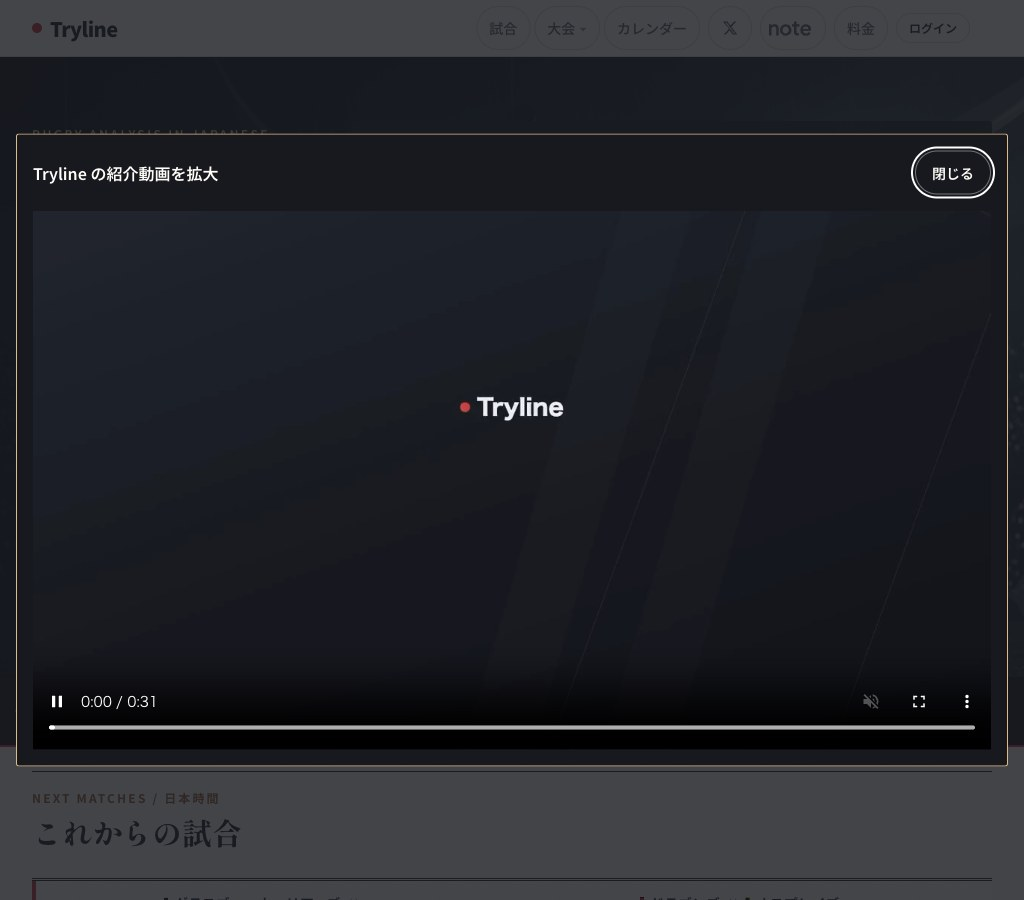
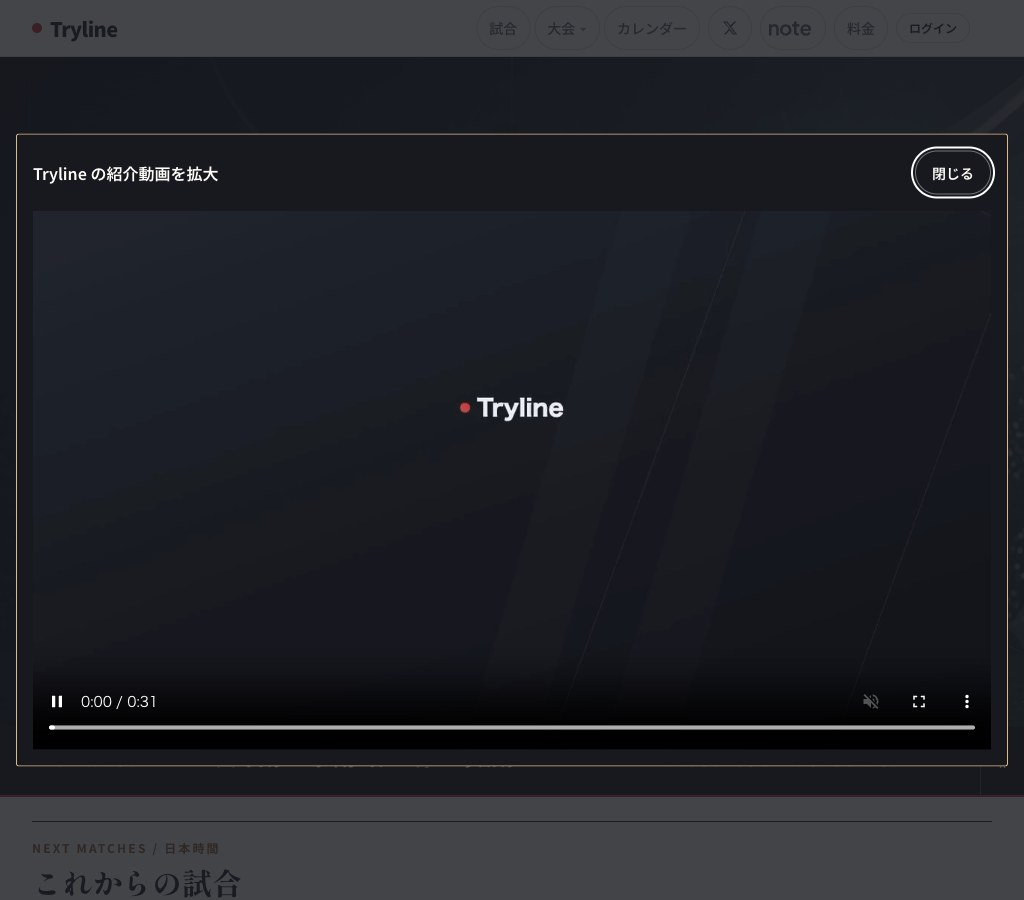
fix: restore compact intro film and make its surface expandable

diff --git a/components/home-intro-film.tsx b/components/home-intro-film.tsx
@@ -1,6 +1,6 @@
 "use client";
 
-import { useEffect, useId, useRef, useState } from "react";
+import { type MouseEvent, useEffect, useId, useRef, useState } from "react";
 
 const POSTER_SRC = "/videos/tryline-promo-poster.jpg";
 const VIDEO_SRC = "/videos/tryline-promo-720p.mp4";
@@ -74,10 +74,11 @@ export function HomeIntroFilm() {
     };
   }, [expanded, dialogFailed]);
 
-  function openDialog() {
+  function openDialog(event: MouseEvent<HTMLButtonElement>) {
     const dialog = dialogRef.current;
     if (!dialog || dialog.open) return;
 
+    expandButtonRef.current = event.currentTarget;
     const inlineVideo = videoRef.current;
     resumeInlineRef.current = Boolean(inlineVideo && !inlineVideo.paused);
     inlineVideo?.pause();
@@ -144,11 +145,36 @@ export function HomeIntroFilm() {
             width={1280}
           />
         )}
+        <button
+          aria-label="紹介動画を拡大して見る"
+          className="tl-intro-expand absolute inset-0 z-10 cursor-zoom-in focus-visible:outline focus-visible:outline-2 focus-visible:-outline-offset-4 focus-visible:outline-white"
+          disabled={!ready}
+          onClick={openDialog}
+          type="button"
+        >
+          <span className="tl-intro-expand-icon absolute left-1/2 top-1/2 flex h-14 w-14 -translate-x-1/2 -translate-y-1/2 items-center justify-center rounded-full border border-white/60 bg-[var(--color-ink-strong)] text-white">
+            <svg
+              aria-hidden="true"
+              fill="none"
+              height="28"
+              viewBox="0 0 24 24"
+              width="28"
+            >
+              <path
+                d="M8 3H3v5m0-5 6 6m7-6h5v5m0-5-6 6M3 16v5h5m-5 0 6-6m12 1v5h-5m5 0-6-6"
+                stroke="currentColor"
+                strokeLinecap="round"
+                strokeLinejoin="round"
+                strokeWidth="1.5"
+              />
+            </svg>
+          </span>
+        </button>
         {enabled && !failed && (
           <button
             aria-label={paused ? "紹介動画を再生" : "紹介動画を一時停止"}
             aria-pressed={paused}
-            className="absolute bottom-2 right-2 inline-flex min-h-11 min-w-11 items-center justify-center rounded-full border border-white/40 bg-[var(--color-ink-strong)] px-4 text-xs font-semibold text-white focus-visible:outline focus-visible:outline-2 focus-visible:outline-offset-2 focus-visible:outline-white"
+            className="absolute bottom-2 right-2 z-20 inline-flex min-h-11 min-w-11 items-center justify-center rounded-full border border-white/40 bg-[var(--color-ink-strong)] px-4 text-xs font-semibold text-white focus-visible:outline focus-visible:outline-2 focus-visible:outline-offset-2 focus-visible:outline-white"
             onClick={togglePlayback}
             type="button"
           >
@@ -169,7 +195,6 @@ export function HomeIntroFilm() {
           className="inline-flex min-h-11 items-center rounded-full border border-white/40 px-4 text-sm font-semibold focus-visible:outline focus-visible:outline-2 focus-visible:outline-offset-2 focus-visible:outline-white"
           disabled={!ready}
           onClick={openDialog}
-          ref={expandButtonRef}
           type="button"
         >
           拡大して見る

diff --git a/tests/components/home-intro-film.test.tsx b/tests/components/home-intro-film.test.tsx
@@ -175,7 +175,7 @@ describe("HomeIntroFilm", () => {
     changeMedia(1440, true);
     expect(video()).not.toHaveAttribute("src");
     expect(
-      screen.queryByRole("button", { name: /紹介動画を/ }),
+      screen.queryByRole("button", { name: /^紹介動画を(再生|一時停止)$/ }),
     ).not.toBeInTheDocument();
   });
 
@@ -187,7 +187,7 @@ describe("HomeIntroFilm", () => {
       "/videos/tryline-promo-poster.jpg",
     );
     expect(
-      screen.queryByRole("button", { name: /紹介動画を/ }),
+      screen.queryByRole("button", { name: /^紹介動画を(再生|一時停止)$/ }),
     ).not.toBeInTheDocument();
     expect(
       screen.queryByLabelText("サイトとアプリの紹介（音なし）"),
@@ -309,6 +309,51 @@ describe("HomeIntroFilm", () => {
       "/videos/tryline-promo-poster.jpg",
     );
     fireEvent.click(within(dialog).getByRole("button", { name: "閉じる" }));
+    expect(screen.queryByRole("dialog")).not.toBeInTheDocument();
+  });
+
+  it.each([
+    { viewportWidth: 390, reduce: false },
+    { viewportWidth: 1440, reduce: false },
+    { viewportWidth: 1440, reduce: true },
+  ])(
+    "expands from the video surface and returns focus to that trigger at $viewportWidth px, reduce=$reduce",
+    ({ viewportWidth, reduce }) => {
+      width = viewportWidth;
+      reduced = reduce;
+      render(<HomeIntroFilm />);
+      const surface = screen.getByRole("button", {
+        name: "紹介動画を拡大して見る",
+      });
+      expect(surface.tagName).toBe("BUTTON");
+      expect(surface).toHaveAttribute("type", "button");
+      expect(surface).toBeEnabled();
+      expect(surface.querySelector("button")).toBeNull();
+      fireEvent.click(surface);
+      const dialog = screen.getByRole("dialog");
+      expect(
+        within(dialog).getByLabelText(
+          "サイトとアプリの紹介・拡大表示（音なし）",
+        ),
+      ).toHaveAttribute("src", "/videos/tryline-promo-720p.mp4");
+      fireEvent.click(within(dialog).getByRole("button", { name: "閉じる" }));
+      expect(surface).toHaveFocus();
+      expect(document.querySelector("dialog video")).toBeNull();
+    },
+  );
+
+  it("keeps the playback button separate from the surface expansion button", () => {
+    render(<HomeIntroFilm />);
+    const surface = screen.getByRole("button", {
+      name: "紹介動画を拡大して見る",
+    });
+    const pause = screen.getByRole("button", { name: "紹介動画を一時停止" });
+    expect(surface.contains(pause)).toBe(false);
+    fireEvent.click(pause);
+    expect(video().paused).toBe(true);
+    expect(screen.queryByRole("dialog")).not.toBeInTheDocument();
+    fireEvent.click(screen.getByRole("button", { name: "紹介動画を再生" }));
+    expect(video().paused).toBe(false);
     expect(screen.queryByRole("dialog")).not.toBeInTheDocument();
   });
 });

diff --git a/app/globals.css b/app/globals.css
@@ -479,6 +479,13 @@
   border-top: 0;
   border-left: 1px solid #e0c493;
 }
+.tl-scope .tl-intro-expand-icon {
+  opacity: 0;
+}
+.tl-scope .tl-intro-expand:hover .tl-intro-expand-icon,
+.tl-scope .tl-intro-expand:focus-visible .tl-intro-expand-icon {
+  opacity: 1;
+}
 .tl-scope .tl-intro-dialog {
   width: min(1100px, calc(100vw - 32px));
   max-width: none;
@@ -793,25 +800,28 @@
 }
 @media (min-width: 1024px) {
   .tl-scope .tl-home-hero {
-    min-height: 620px;
-    padding-top: 64px;
-    padding-bottom: 64px;
+    min-height: 670px;
+    padding-top: 120px;
+    padding-bottom: 76px;
   }
   .tl-scope .tl-hero-layout {
-    display: grid;
-    grid-template-columns: minmax(0, 1fr) clamp(640px, 50vw, 720px);
-    gap: 32px;
-  }
-  .tl-scope .tl-hero-heading {
-    max-width: 100%;
-    font-size: clamp(34px, calc(6.25vw - 30px), 64px);
-  }
-  .tl-scope .tl-hero-heading > span {
     display: block;
   }
+  .tl-scope .tl-hero-heading {
+    max-width: 1160px;
+    font-size: clamp(72px, 6.35vw, 96px);
+  }
+  .tl-scope .tl-hero-heading > span:last-child {
+    display: block;
+  }
+  .tl-scope .tl-hero-layout > div > p:not(:first-child) {
+    max-width: min(36rem, calc(100% - clamp(390px, 32vw, 460px) - 32px));
+  }
   .tl-scope .tl-introduction-poster {
-    position: static;
-    width: 100%;
+    position: absolute;
+    right: 32px;
+    bottom: -64px;
+    width: clamp(390px, 32vw, 460px);
   }
   .tl-scope .tl-editorial-reviews {
     grid-template-columns: minmax(0, 1.6fr) minmax(0, 1fr);

diff --git a/docs/notes/home-intro-film/validation.md b/docs/notes/home-intro-film/validation.md
@@ -9,8 +9,9 @@
 - 動画: 1,194,970 bytes、H.264、1280×720、31.5秒、音声ストリームなし。ポスター: 19,148 bytes。元ファイルとバイト一致、moovがmdatより先のfaststartを保持。レビュー修正では素材を変更していない。
 - SSRはwidth=1280 / height=720 / poster / preload=noneのvideoを描き、src・source要素は出さない。aspect-video / object-containで映像を切り抜かない。fetchpriority、lazy、動画preloadリンクは追加なし。
 - 自動取得はwindow.load後（completeなら直後）、701px以上、Reduce Motionオフのみ。条件が変われば停止・src解除・loadでメディアを解放。muted / playsInline / autoplay / loop、一時停止・再生ボタンは44px以上、aria-pressedで状態を表示。
-- 1024px以上は左右のgrid配置に変更。動画の幅はclamp(640px,50vw,720px)、見出しは既存の3つのspanを行ごとに表示し34〜64pxで可変。ヒーローは最小620px、上下64px。キャプションとボタンは映像の下。1024px未満の配置は維持。
-- 「拡大して見る」はスマホとReduce Motionでも表示。JSがないSSRでは無効、hydration後に有効。native dialogのshowModalで背景をinertにし、閉じるボタンへフォーカス。閉じるボタンまたはEsc由来のcancelでcloseし、開いたボタンへフォーカスを戻す。
+- Ownerの追加レビューに従い、デスクトップを拡大前の配置に戻した。見出しは72〜96px、最終spanだけ改行し2行。ヒーローは最小670px、上120px・下76px。動画は右側の独立した枠、幅clamp(390px,32vw,460px)。390pxでも本文と重ならないよう説明文の右側に32pxの余裕を確保し、枠の位置を見出しの1行目より下へ調整。1024px未満の配置は維持。
+- 「拡大して見る」はスマホとReduce Motionでも表示。JSがないSSRでは無効、hydration後に有効。native dialogのshowModalで背景をinertにし、閉じるボタンへフォーカス。閉じるボタンまたはEsc由来のcancelでcloseし、実際に開いたボタンへフォーカスを戻す。
+- 動画面にaria-label「紹介動画を拡大して見る」のnative buttonを重ね、マウスとキーボードの両方で開けるようにした。中央の四隅の矢印はhover／focus-visible時だけ表示。一時停止ボタンは別の兄弟要素として上の層に置き、独立した操作を維持。枠のポスター表示中・エラー時も拡大できる。
 - ダイアログ動画は開いたときだけ描画・src設定。controls / muted / playsInline / autoplay、ループなし。最大1100pxのダイアログ内で16:9表示。閉じると動画を取り除き、停止・src解除・loadでメディアを解放。
 - 拡大中は背面の動画を停止。閉じると、拡大前に再生中で今も自動再生の条件を満たす場合だけ再開。利用者が先に停止していた場合は停止を維持。
 - インライン・拡大表示それぞれの読み込みエラーは、同寸法のポスター画像へ復帰。閉じる操作は残る。インラインの自動再生拒否は再生ボタンを残す。
@@ -23,12 +24,12 @@
 ## 自動検証
 
 - レビューの追加要件のテストを先に追加し、未実装状態で失敗を確認してから修正。
-- HomeIntroFilmの18件: SSR、390/700px、701/1440px、Reduce Motion、load待ち、停止／再生、条件変更、エラー、自動再生拒否、解除、明示拡大での取得、controls/muted、閉じる・cancel・フォーカス復帰、背面停止と再開、先に停止していた状態の維持、ダイアログ内のポスター復帰。
-- HomePageの既存25件を含む関連テスト43件成功。既存のポスター期待値1件のみ初回実装で更新し、レビュー修正ではHomePageのテストを変更していない。
+- HomeIntroFilmの22件: SSR、390/700px、701/1440px、Reduce Motion、load待ち、停止／再生、条件変更、エラー、自動再生拒否、解除、明示拡大での取得、controls/muted、閉じる・cancel・フォーカス復帰、背面停止と再開、先に停止していた状態の維持、ダイアログ内のポスター復帰。追加レビューでは動画面からの拡大と元の動画面へのフォーカス復帰（390px・1440px・Reduce Motion）、一時停止ボタンの独立操作を4件追加。
+- HomePageの既存25件を含む関連テスト47件成功。既存のポスター期待値1件のみ初回実装で更新し、レビュー修正ではHomePageのテストを変更していない。
 - pnpm lint: 成功。
 - pnpm typecheck（tsc --noEmit）: 成功。
-- pnpm test: 338ファイル・2,315件成功。
-- pnpm build: コンパイル成功（6.3秒）。秘密ファイルを読まず、明示的なダミー設定とローカルDB URLで実行。ページデータ収集でECONNREFUSED 127.0.0.1:54321、/matches/[id]/enで停止。ビルド全体は未完了。
+- pnpm test: 338ファイル・2,319件成功。
+- pnpm build: コンパイル成功（4.4秒）。秘密ファイルを読まず、明示的なダミー設定とローカルDB URLで実行。ページデータ収集でECONNREFUSED 127.0.0.1:54321、/c/[competition]/[season]/standingsで停止。ビルド全体は未完了。
 - cta_id集合: 27→27、差なし。仕様書・指示書・元素材の一致確認、git diff --check成功。新規依存なし。
 
 ## ローカル実ブラウザでの確認
@@ -37,14 +38,17 @@
 
 | 幅・状態 | 確認結果 |
 |---|---|
-| 1440×900 | 映像720×405px、figure下端582px、h1=60px。見出し・CTA・映像が1画面目に収まり、横はみ出しなし |
-| 1024×900 | 映像640×360px、figure下端537px、h1=34px。2つのCTAの下端478.7/532.7px、重なり・横はみ出しなし |
+| 1440×900 | 映像460×258.75px、figure下端643.9px、h1=91.44px。見出し・CTA・映像が1画面目に収まり、横はみ出しなし |
+| 1024×900 | 映像390×219.375px、figure下端596.1px、h1=72px。2つのCTAの下端はともに532.1px、重なり・横はみ出しなし |
 | 390×844 | 映像358×201.375px、figure下端754px。srcなし・mp4通信0件、拡大ボタンは有効、横はみ出しなし |
 | 拡大・1440px | ダイアログ1100×693.625px、映像1066×599.625px。muted/controls=true、背面は停止、閉じると背面を再開し拡大ボタンへフォーカス復帰 |
 | 拡大・1024px | ダイアログ992×632.875px、映像958×538.875px。cancelイベントで閉じ、動画がDOMから消え、フォーカス復帰 |
 | 拡大・390px | ダイアログ358×276.25px、映像324×182.25px。押した後だけmp4通信1件、muted/controls=true、再生中。閉じると動画を除去しフォーカス復帰。インラインのsrcは引き続きなし |
 | Reduce Motion条件・1440px | 初期matchMediaにreduce=trueを注入。押す前はsrcなし・mp4通信0件、押した後だけ1件。閉じると動画を除去しフォーカス復帰、インラインのsrcはなし。OS／CSSの実際のreduce設定は未確認 |
 | ダイアログの背景フォーカス | 開いている間、背景CTAへfocus()しても移らず、閉じるボタンに留まる。標準showModalのinertによる制限を確認 |
+| 動画面の拡大・1024px／390px | 動画面のbuttonからダイアログを開き、controls/muted=true。閉じると動画面へフォーカス復帰。390pxは操作前0件、操作後1件のmp4通信。インラインはsrcなしを維持 |
+| 拡大アイコン・1440px／1024px | 動画面をfocus()し、focus-visible=true、中央アイコンのopacity=1を確認。hoverは同じCSS宣言を使用。実マウスのhover操作は未確認 |
+| 一時停止の重なり | 一時停止ボタン中央をelementFromPointで取得し、動画面ボタンより上の操作対象であることを確認。独立した停止・再生は単体テストで確認 |
 | インラインを先に停止 | 停止してから拡大し、閉じてもpaused=trueを維持 |
 
 初回実装時に確認した内容: 1440pxの音なしループ（終端へシーク後先頭へ戻る）、停止・再生、700pxの通信0件、700→701pxの取得開始と701→700pxの解除、クライアントスクリプトなしのSSRポスター、存在しない動画URLによるポスター復帰。これらの挙動のコードはレビュー修正でも維持し、自動テストで再確認した。
@@ -55,7 +59,7 @@ Playwrightはブラウザ使用中・コード実行の承認制限・Node側の
 
 ## スクリーンショット
 
-ローカルの実コンポーネントを載せたトップ、ページ先頭、DPR=1。通常表示の1440/1024pxは再生中、390pxは静止ポスター。拡大表示はすべて明示操作後の再生画面。
+ローカルの実コンポーネントを載せたトップ、ページ先頭、DPR=1。通常表示の1440/1024pxは再生中、390pxは静止ポスター。1440pxは動画面のfocus-visible状態で中央の拡大アイコンも表示。拡大表示はすべて明示操作後の再生画面。
 
 | 幅 | 通常表示 | 拡大表示 |
 |---|---|---|
